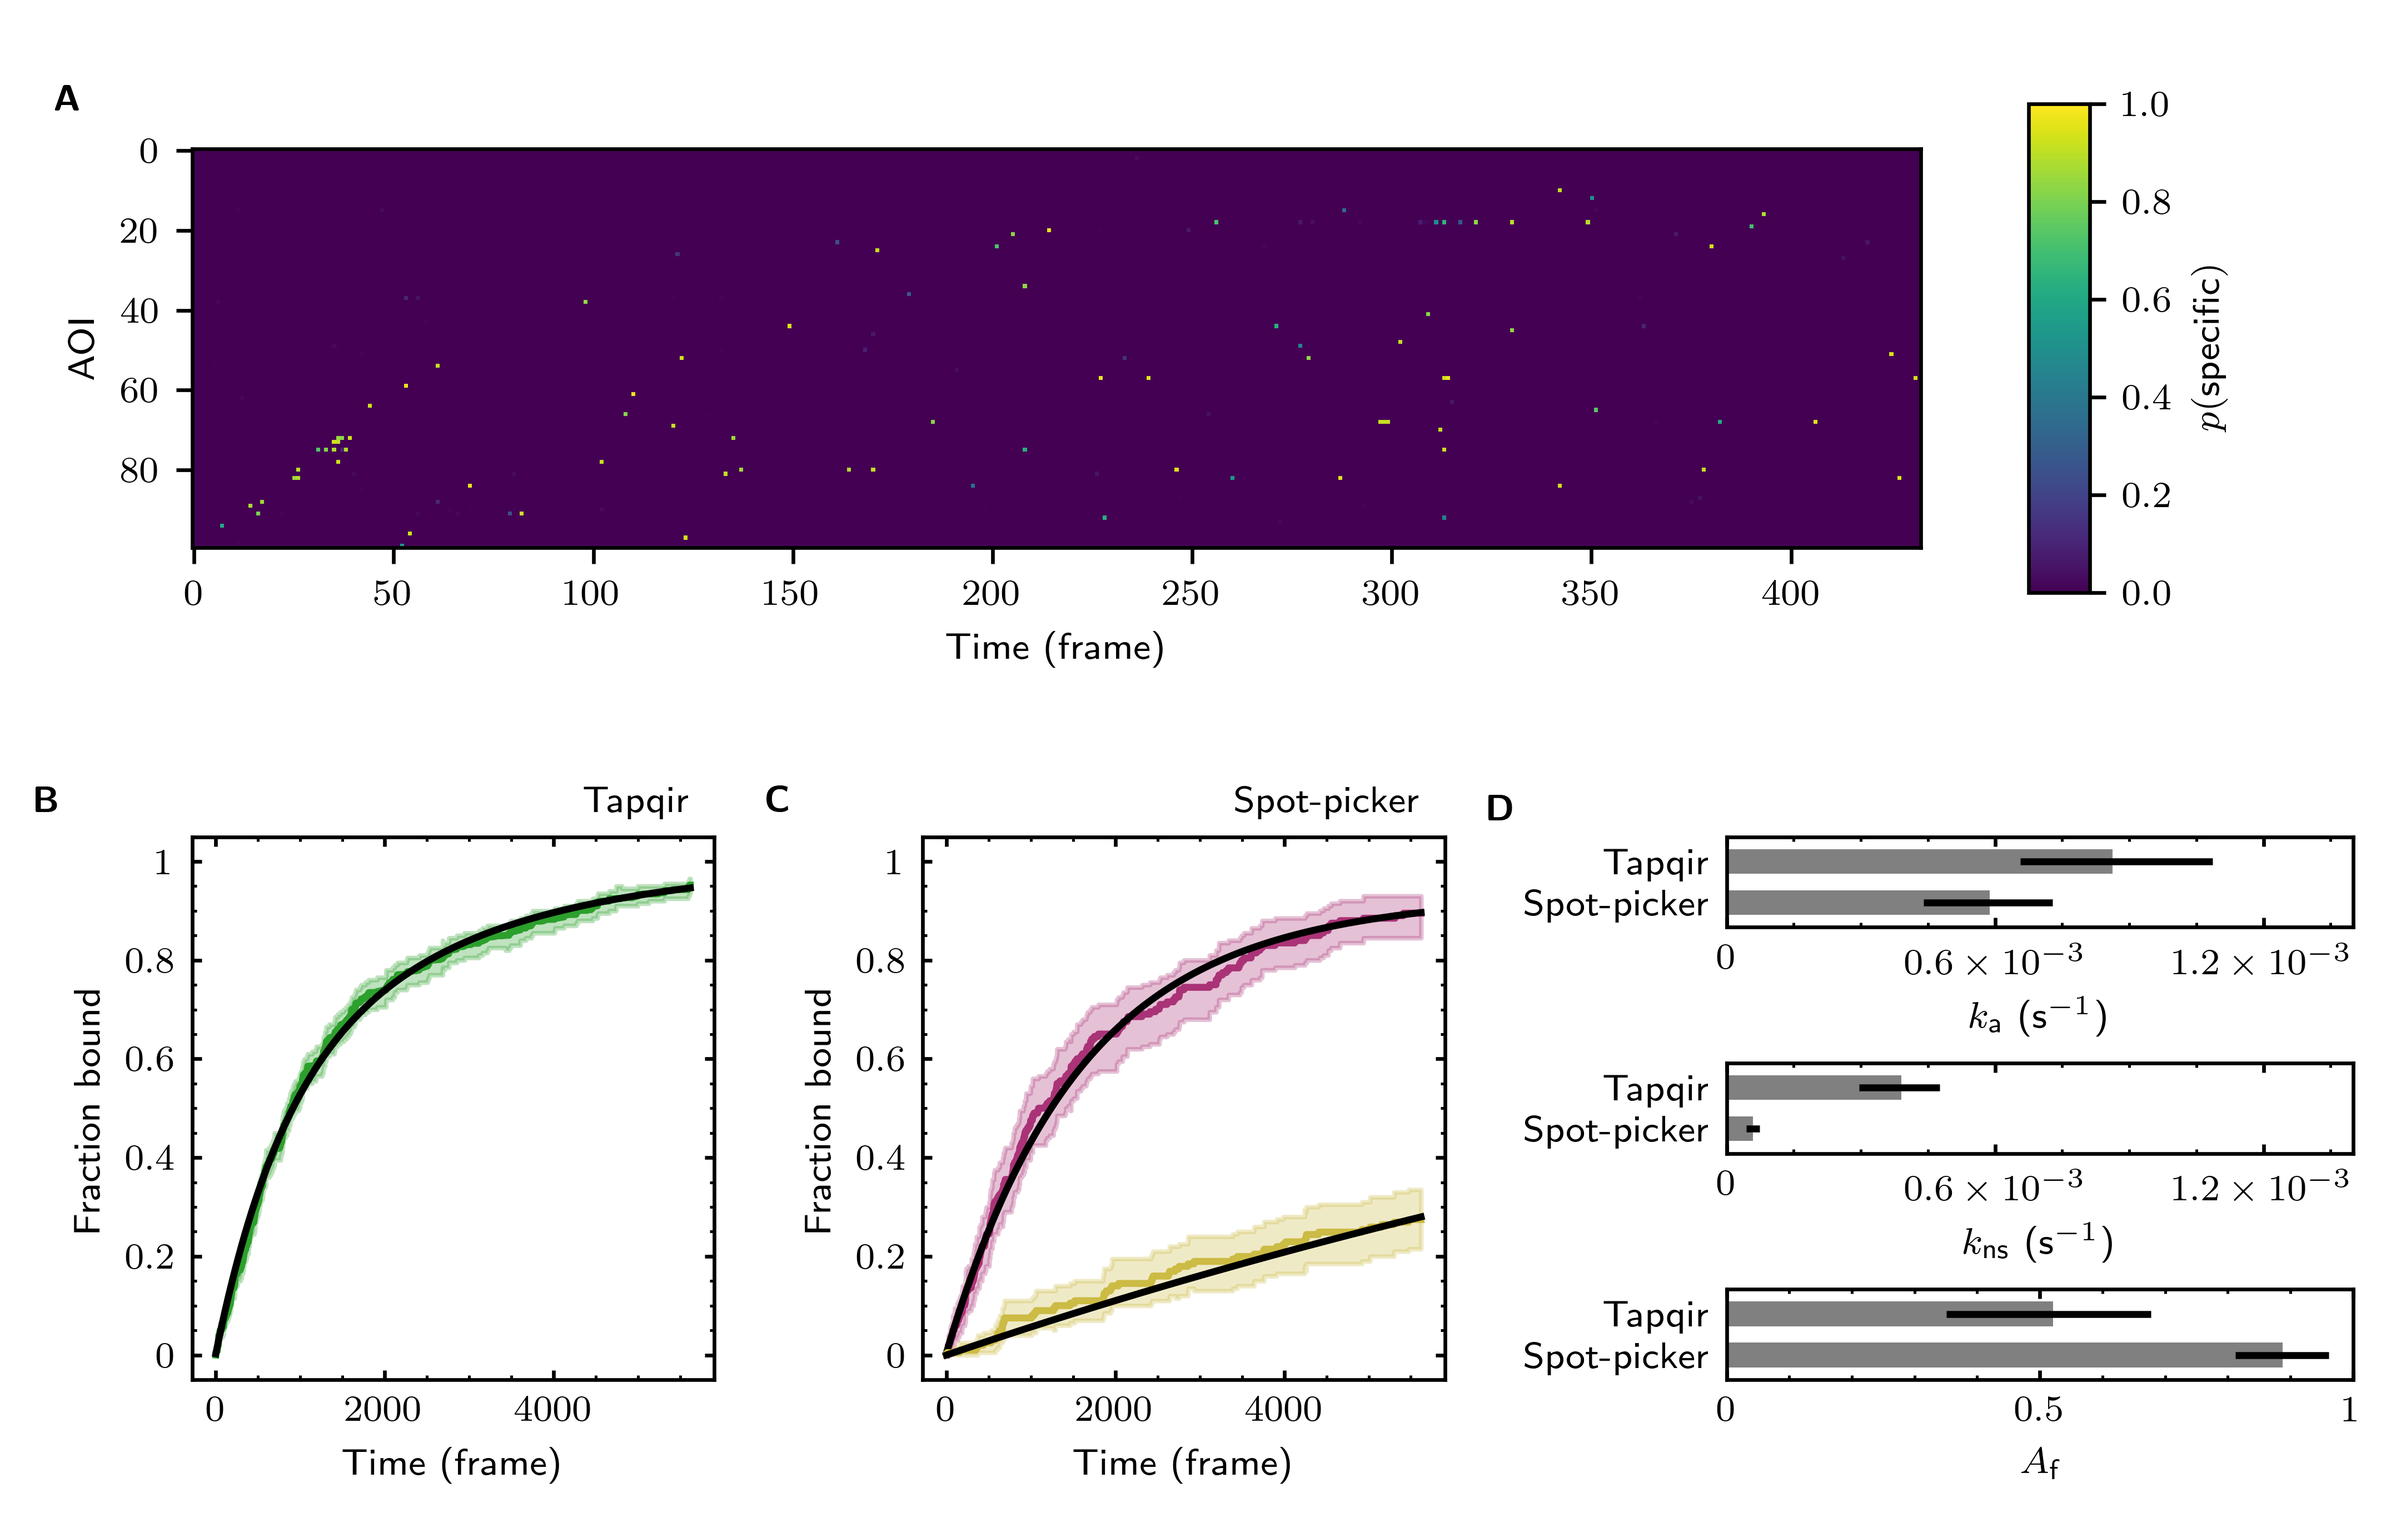
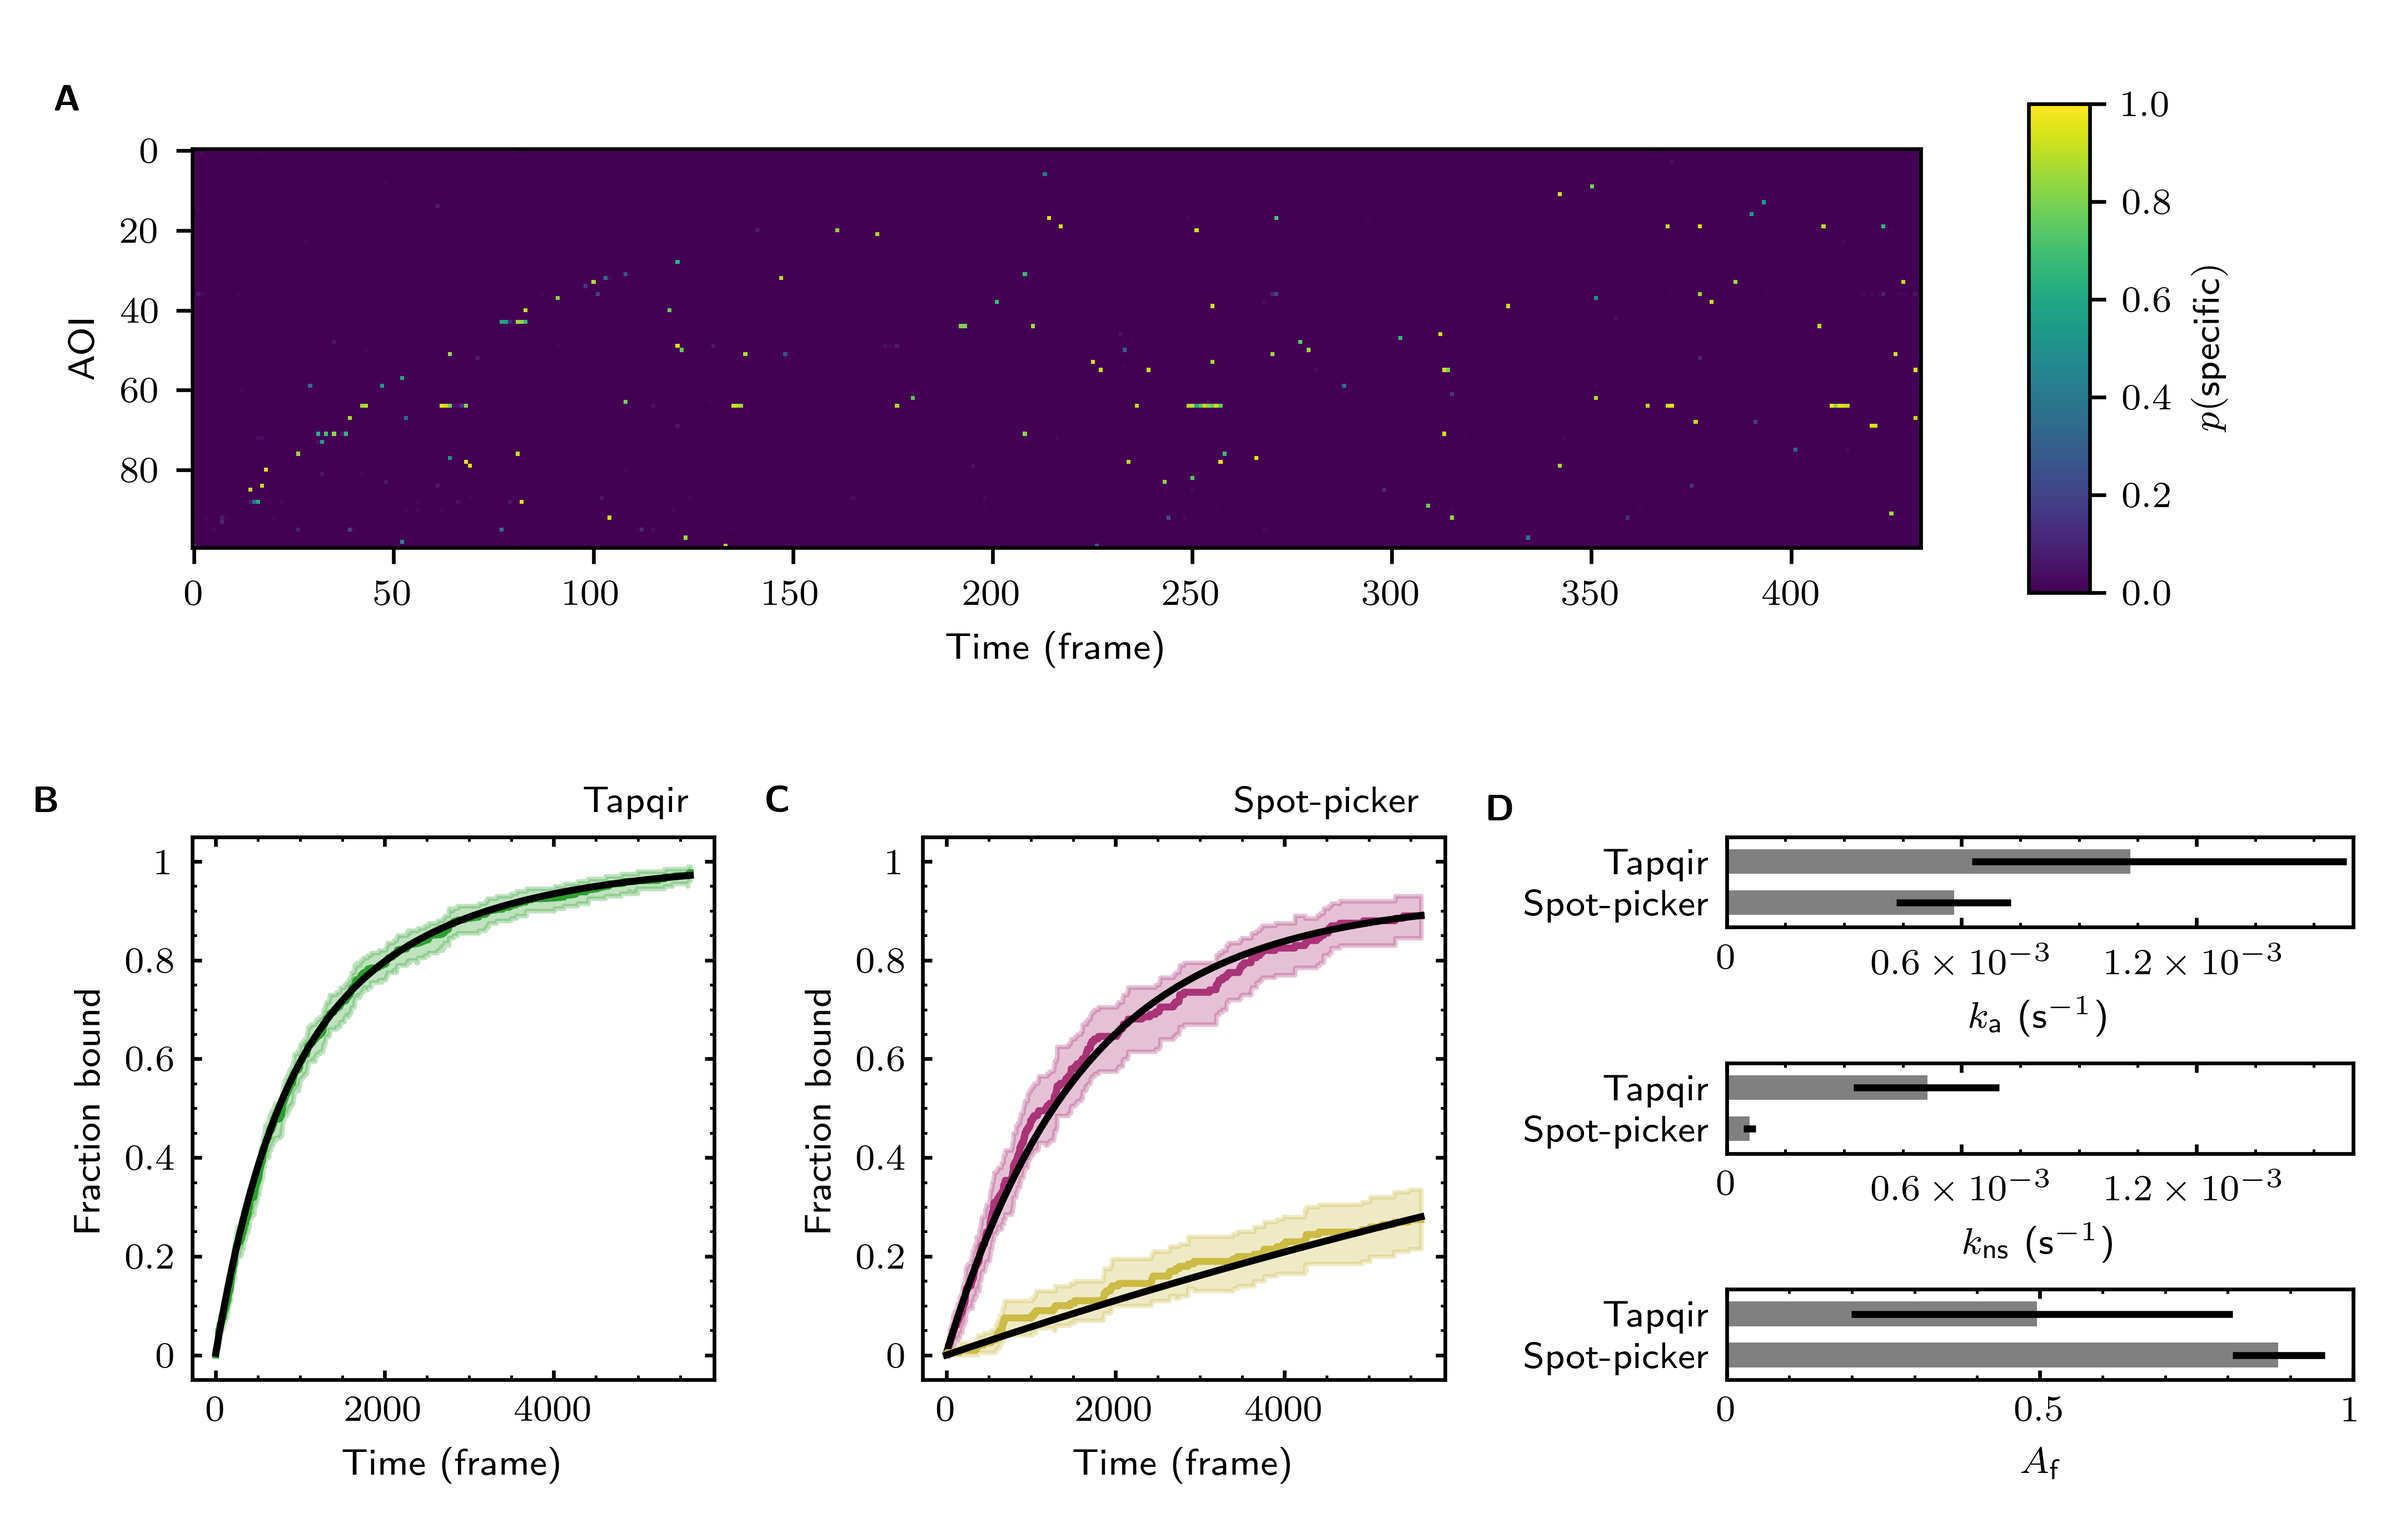
DatasetD

diff --git a/scripts/figures/experimental_data_DatasetD.py b/scripts/figures/experimental_data_DatasetD.py
@@ -14,9 +14,8 @@ mpl.rcParams["font.family"] = "sans-serif"
 mpl.rcParams.update({"font.size": 8})
 
 # load model & parameters
-# path_data = Path("experimental/GreB")
-path_data = Path("/shared/centaur/final/GreB")
-model = Cosmos(verbose=False)
+path_data = Path("experimental/DatasetD")
+model = Cosmos()
 model.load(path_data, data_only=False)
 
 fig = plt.figure(figsize=(7.2, 4.6), constrained_layout=False)
@@ -41,13 +40,13 @@ ax.text(
 )
 
 # sorted on-target
-ttfb = time_to_first_binding(model.params["z_map"])
+ttfb = time_to_first_binding(model.params["z_map"][: model.data.N])
 # sort ttfb
 sdx = torch.argsort(ttfb, descending=True)
 
 norm = mpl.colors.Normalize(vmin=0, vmax=1)
 im = ax.imshow(
-    model.params["p(specific)"][sdx][::2, ::13],
+    model.params["p(specific)"][: model.data.N][sdx][::2, ::13],
     norm=norm,
     aspect="equal",
     interpolation="none",
@@ -61,12 +60,12 @@ gsb = gs[1, 0].subgridspec(1, 2, wspace=0.4)
 # panel b (Tapqir)
 ax = fig.add_subplot(gsb[0, 0])
 ax.text(
-    -0.38 * model.data.ontarget.F,
+    -0.38 * model.data.F,
     1.1,
     r"\textbf{B}",
 )
 ax.text(
-    model.data.ontarget.F,
+    model.data.F,
     1.1,
     "Tapqir",
     horizontalalignment="right",
@@ -74,9 +73,9 @@ ax.text(
 
 results = pd.read_csv("scripts/figures/DatasetD.csv", index_col=0)
 # prepare data
-Tmax = model.data.ontarget.F
+Tmax = model.data.F
 torch.manual_seed(0)
-z = dist.Bernoulli(model.params["p(specific)"]).sample((2000,))
+z = dist.Bernoulli(model.params["p(specific)"][: model.data.N]).sample((2000,))
 data = time_to_first_binding(z)
 
 nz = (data == 0).sum(1, keepdim=True)
@@ -141,20 +140,24 @@ ax.set_ylim(-0.05, 1.05)
 # panel c (Spotpicker)
 ax = fig.add_subplot(gsb[0, 1])
 ax.text(
-    -0.38 * model.data.ontarget.F,
+    -0.38 * model.data.F,
     1.1,
     r"\textbf{C}",
 )
 ax.text(
-    model.data.ontarget.F,
+    model.data.F,
     1.1,
     "Spot-picker",
     horizontalalignment="right",
 )
 
-spotpicker_data = time_to_first_binding(model.data.ontarget.labels["z"])
+spotpicker_data = time_to_first_binding(
+    model.data.labels["z"][: model.data.N, :, model.cdx]
+)
 spotpicker_data = torch.tensor(spotpicker_data, dtype=torch.float)
-spotpicker_control = time_to_first_binding(model.data.offtarget.labels["z"])
+spotpicker_control = time_to_first_binding(
+    model.data.labels["z"][model.data.N :, :, model.cdx]
+)
 spotpicker_control = torch.tensor(spotpicker_control, dtype=torch.float)
 
 torch.manual_seed(0)
@@ -259,7 +262,7 @@ gsd = gs[1, 1].subgridspec(3, 1, hspace=1.5)
 # ka
 ax = fig.add_subplot(gsd[0])
 ax.text(
-    -0.38 * 0.0014,
+    -0.38 * 0.0016,
     2,
     r"\textbf{D}",
 )
@@ -296,7 +299,7 @@ ax.tick_params(
 ax.set_xticks([0, 6e-4, 1.2e-3])
 ax.set_xticklabels([r"$0$", r"$0.6 \times 10^{-3}$", r"$1.2 \times 10^{-3}$"])
 ax.set_xlabel(r"$k_\mathsf{a}$ (s$^{-1}$)")
-ax.set_xlim(0, 1.4e-3)
+ax.set_xlim(0, 1.6e-3)
 ax.set_ylim(-0.6, 1.6)
 
 # kns
@@ -336,7 +339,7 @@ ax.tick_params(
 ax.set_xticks([0, 6e-4, 1.2e-3])
 ax.set_xticklabels([r"$0$", r"$0.6 \times 10^{-3}$", r"$1.2 \times 10^{-3}$"])
 ax.set_xlabel(r"$k_\mathsf{ns}$ (s$^{-1}$)")
-ax.set_xlim(0, 1.4e-3)
+ax.set_xlim(0, 1.6e-3)
 ax.set_ylim(-0.6, 1.6)
 
 # Af

diff --git a/scripts/figures/tapqir_analysis_ppc.py b/scripts/figures/tapqir_analysis_ppc.py
@@ -137,7 +137,7 @@ aois = [2, 3, 2, 3, 2, 4]
 frames = [2, 699, 912, 892, 980, 4099]
 
 model.n = torch.tensor(aois)
-pyro.set_rng_seed(1)
+pyro.set_rng_seed(0)
 samples = predictive()
 
 gsb = gs[0, 1].subgridspec(
@@ -211,13 +211,13 @@ for i, n, f in zip(torch.arange(6), aois, frames):
         lw=0.5,
         color="C0",
     )
-    ax.set_ylim(0, 0.04)
+    ax.set_ylim(0, 0.05)
     ax.set_xlim(1070, 1250)
     ax.set_xticks([1100, 1200])
-    ax.set_yticks([0, 0.01, 0.03])
+    ax.set_yticks([0, 0.02, 0.04])
     if i == 0:
         ax.set_xticklabels([r"$1.1$", r"$1.2$"])
-        ax.set_yticklabels([r"$0$", r"$0.01$", r"$0.03$"])
+        ax.set_yticklabels([r"$0$", r"$0.02$", r"$0.04$"])
         ax.set_ylabel("Density")
     elif i == 2:
         ax.set_xticklabels([r"$1.1$", r"$1.2$"])
@@ -341,8 +341,8 @@ predictive = Predictive(
     pyro.poutine.uncondition(model.model), guide=model.guide, num_samples=1
 )
 
-aois = [28, 29, 38, 38, 54, 72]
-frames = [440, 445, 245, 447, 1747, 2630]
+aois = [26, 26, 32, 43, 26, 28]
+frames = [2261, 2290, 4775, 4835, 2311, 54]
 
 model.n = torch.tensor(aois)
 pyro.set_rng_seed(0)
